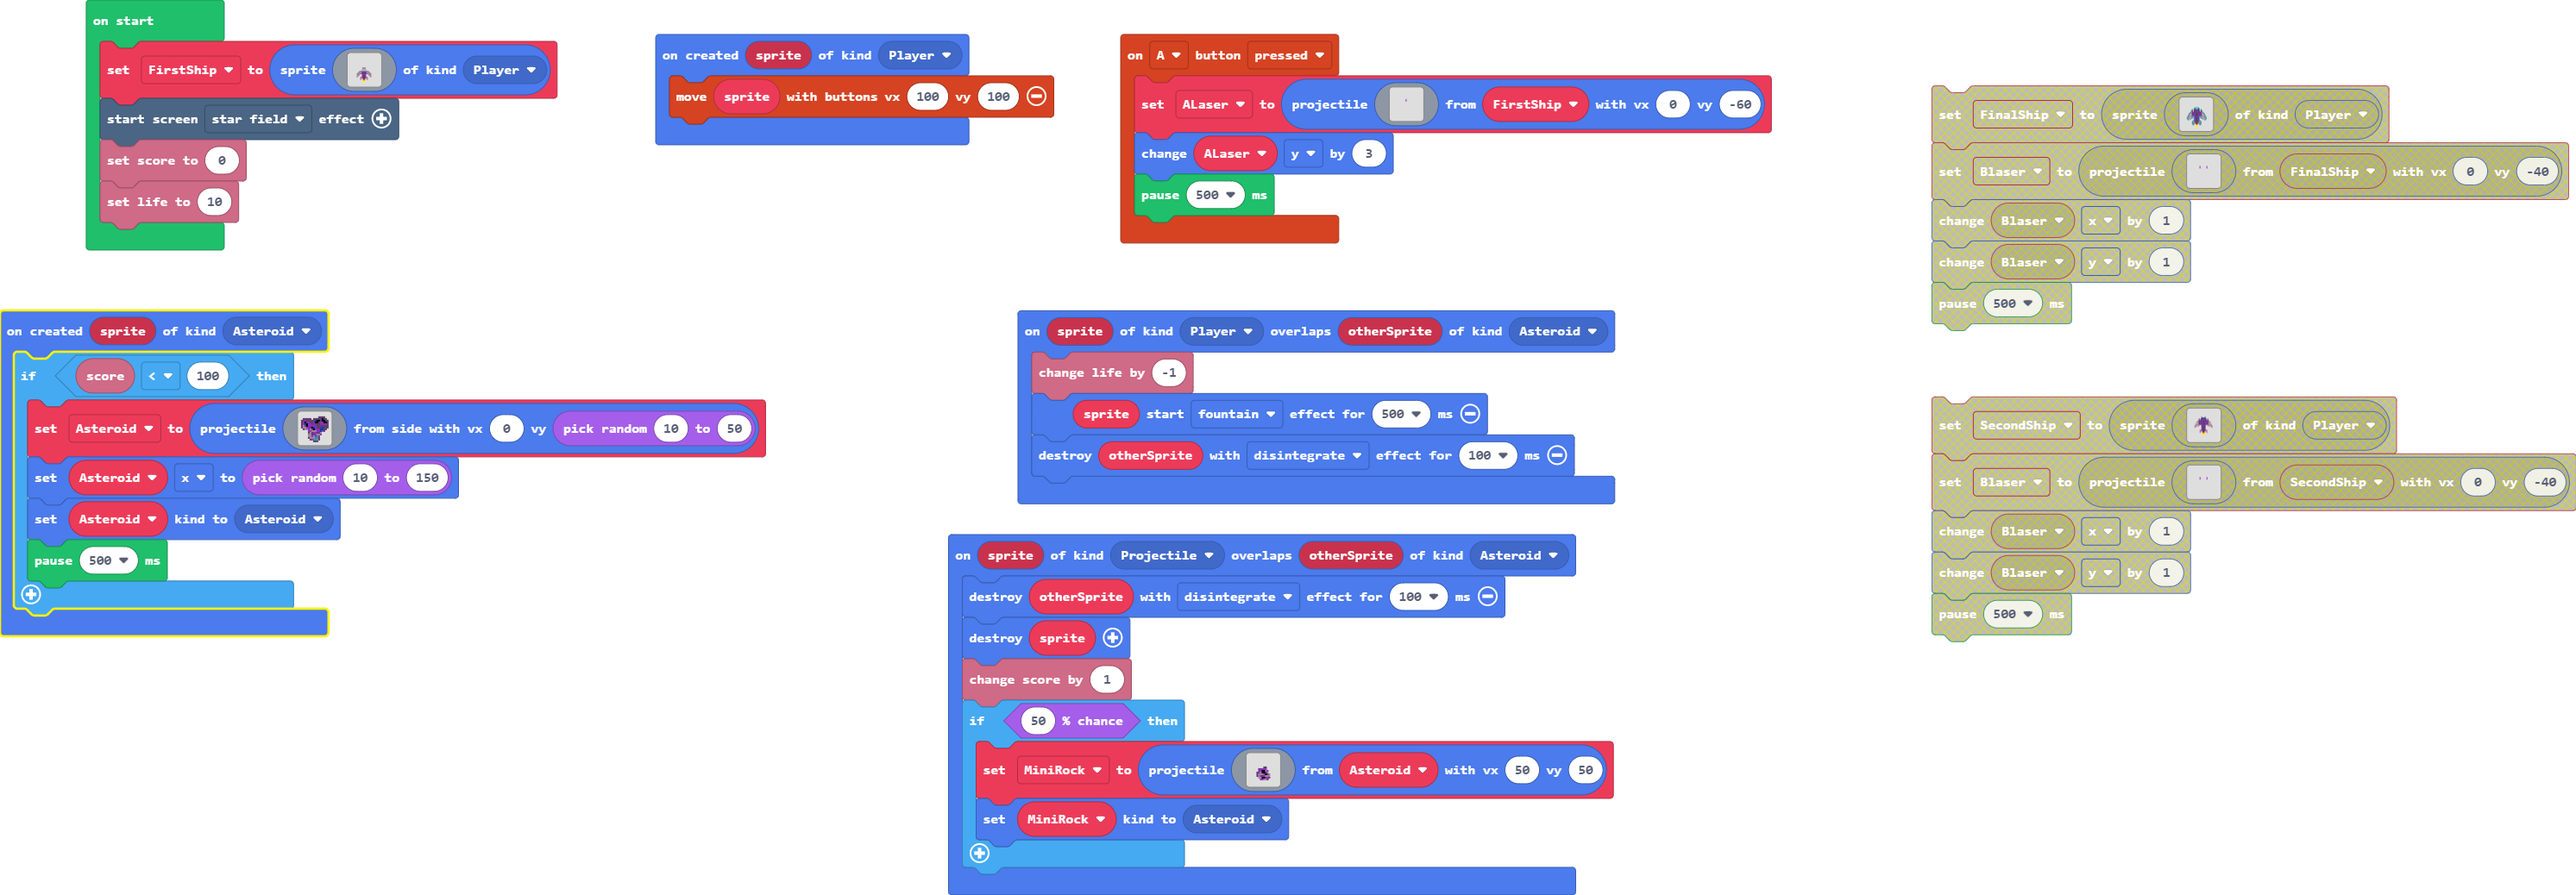
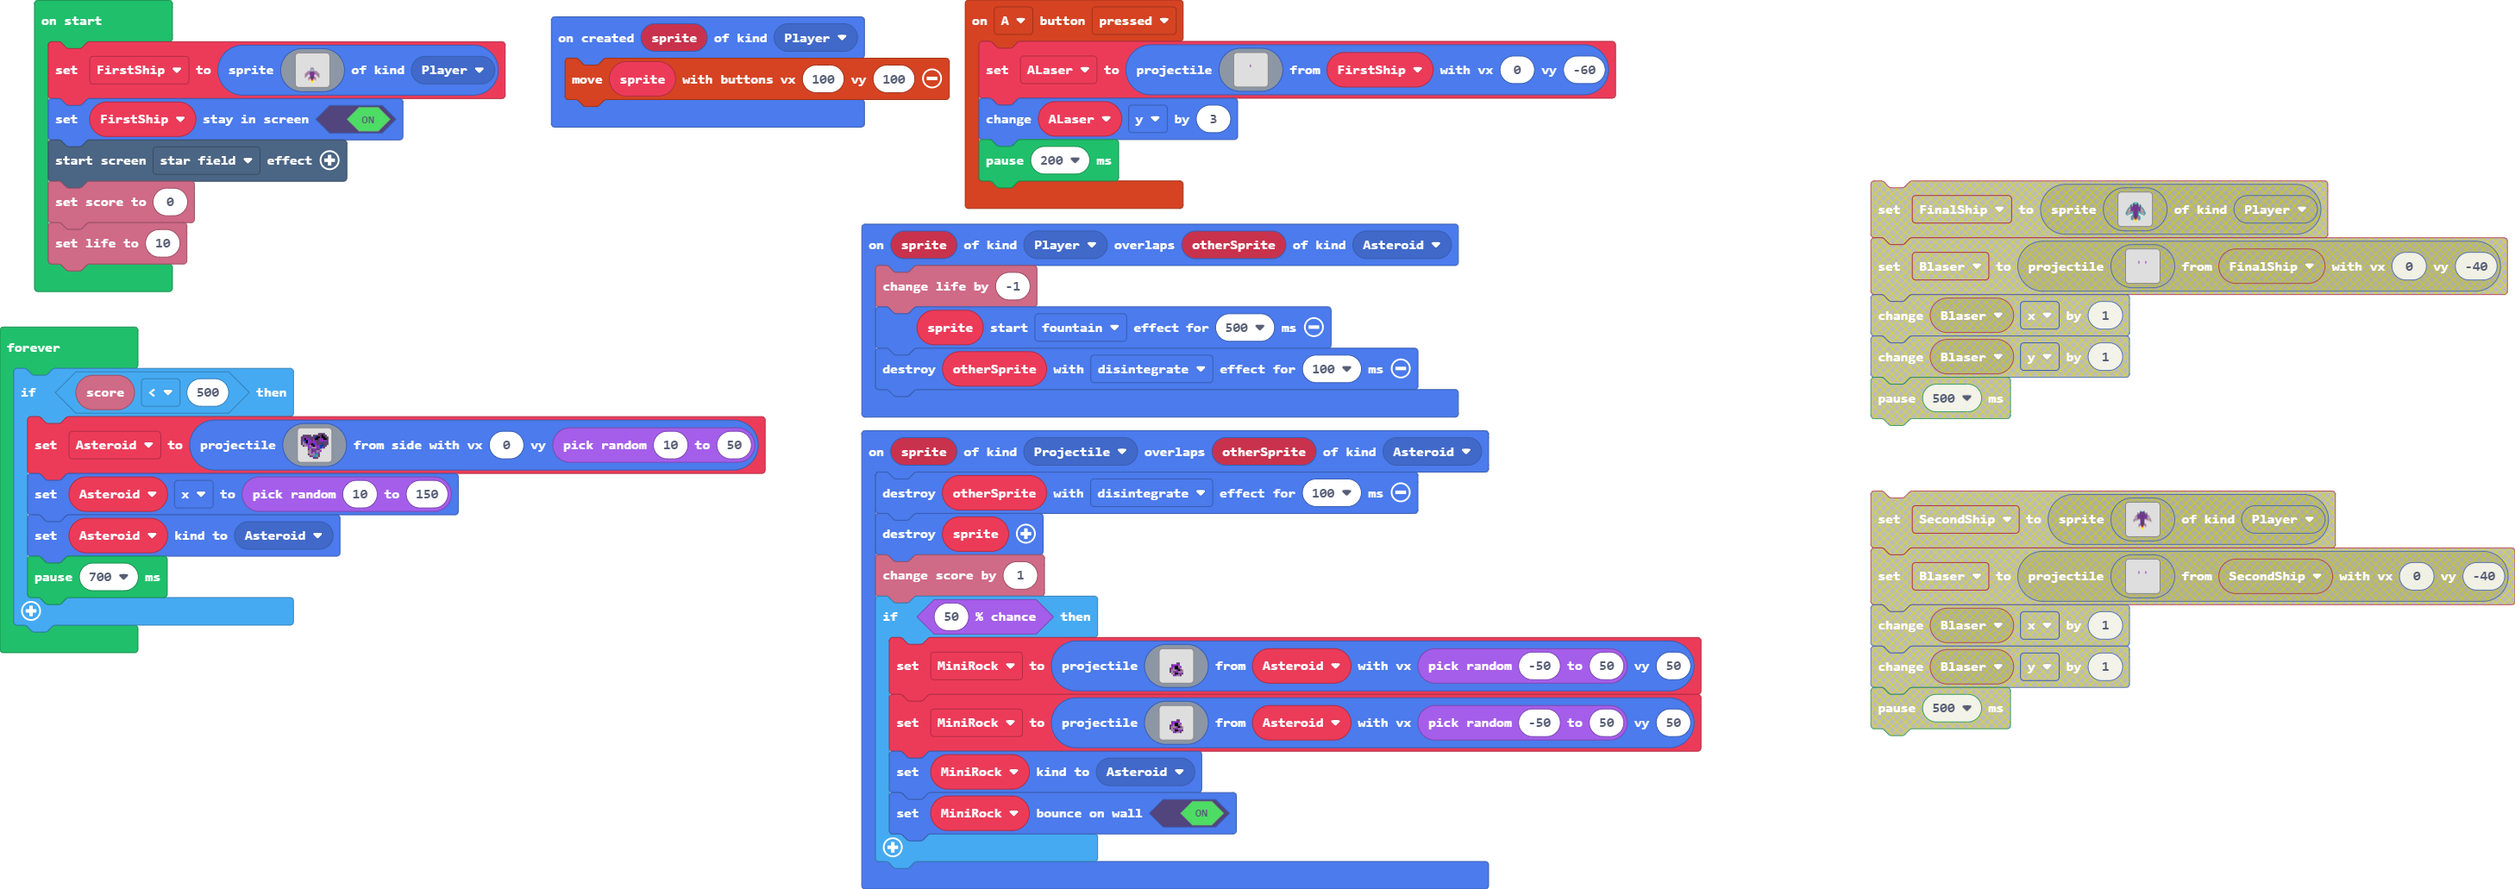
Update main.blocks, main.ts

diff --git a/main.ts b/main.ts
@@ -38,29 +38,23 @@ controller.A.onEvent(ControllerButtonEvent.Pressed, function () {
         ................................
         `, FirstShip, 0, -60)
     ALaser.y += 3
-    pause(500)
+    pause(200)
 })
 sprites.onOverlap(SpriteKind.Projectile, SpriteKind.Asteroid, function (sprite, otherSprite) {
     otherSprite.destroy(effects.disintegrate, 100)
     sprite.destroy()
     info.changeScoreBy(1)
     if (Math.percentChance(50)) {
-        MiniRock = sprites.createProjectileFromSprite(assets.image`MiniAsteriod`, Asteroid, 50, 50)
+        MiniRock = sprites.createProjectileFromSprite(assets.image`MiniAsteriod`, Asteroid, randint(-50, 50), 50)
+        MiniRock = sprites.createProjectileFromSprite(assets.image`MiniAsteriod`, Asteroid, randint(-50, 50), 50)
         MiniRock.setKind(SpriteKind.Asteroid)
+        MiniRock.setBounceOnWall(true)
     }
 })
 sprites.onOverlap(SpriteKind.Player, SpriteKind.Asteroid, function (sprite, otherSprite) {
     info.changeLifeBy(-1)
     sprite.startEffect(effects.fountain, 500)
     otherSprite.destroy(effects.disintegrate, 100)
-})
-sprites.onCreated(SpriteKind.Asteroid, function (sprite) {
-    if (info.score() < 100) {
-        Asteroid = sprites.createProjectileFromSide(assets.image`Asteroid 1`, 0, randint(10, 50))
-        Asteroid.x = randint(10, 150)
-        Asteroid.setKind(SpriteKind.Asteroid)
-        pause(500)
-    }
 })
 sprites.onCreated(SpriteKind.Player, function (sprite) {
     controller.moveSprite(sprite, 100, 100)
@@ -70,6 +64,15 @@ let MiniRock: Sprite = null
 let ALaser: Sprite = null
 let FirstShip: Sprite = null
 FirstShip = sprites.create(assets.image`spaceship`, SpriteKind.Player)
+FirstShip.setStayInScreen(true)
 effects.starField.startScreenEffect()
 info.setScore(0)
 info.setLife(10)
+forever(function () {
+    if (info.score() < 500) {
+        Asteroid = sprites.createProjectileFromSide(assets.image`Asteroid 1`, 0, randint(10, 50))
+        Asteroid.x = randint(10, 150)
+        Asteroid.setKind(SpriteKind.Asteroid)
+        pause(700)
+    }
+})
